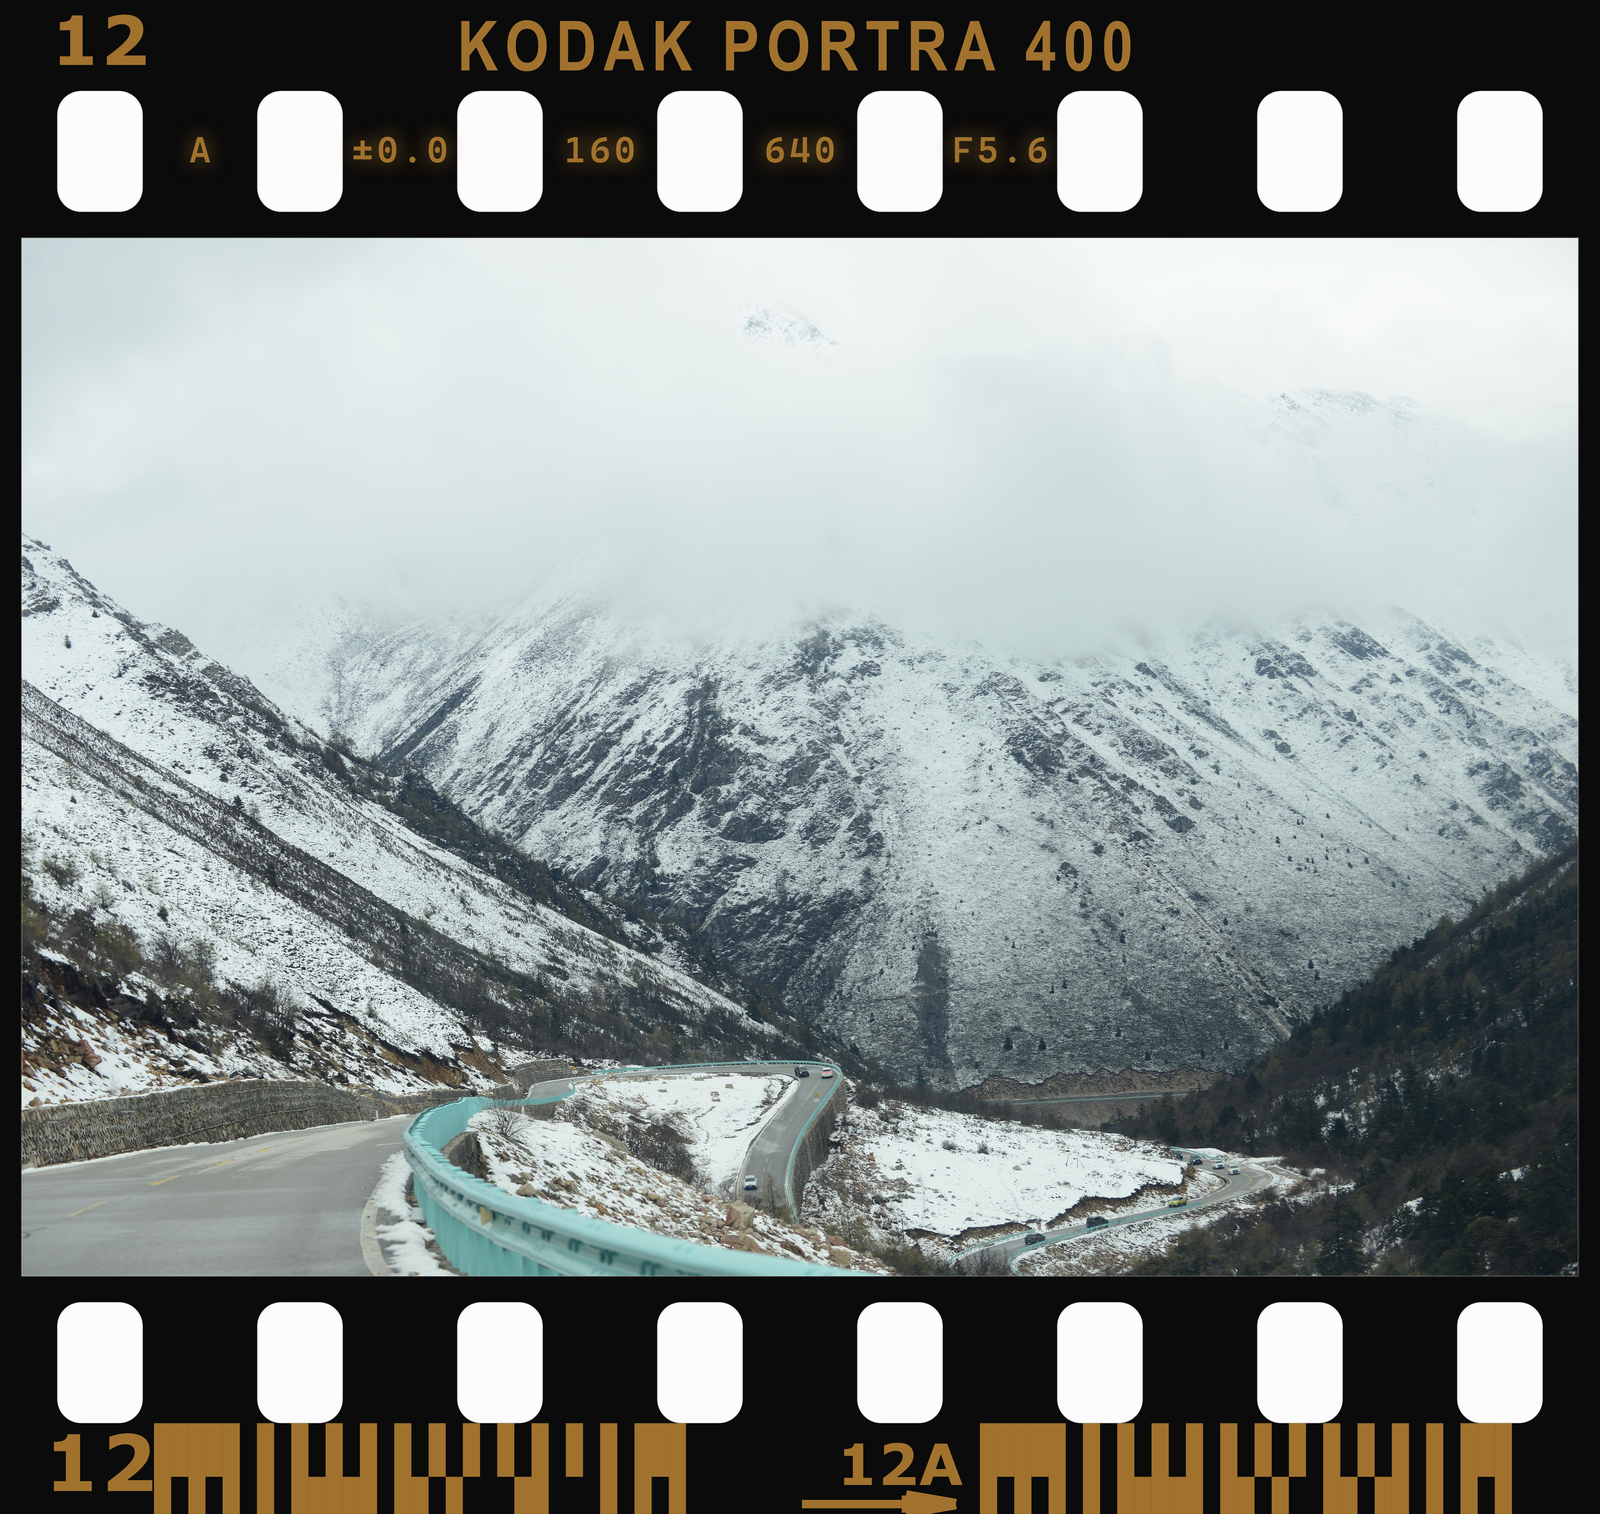
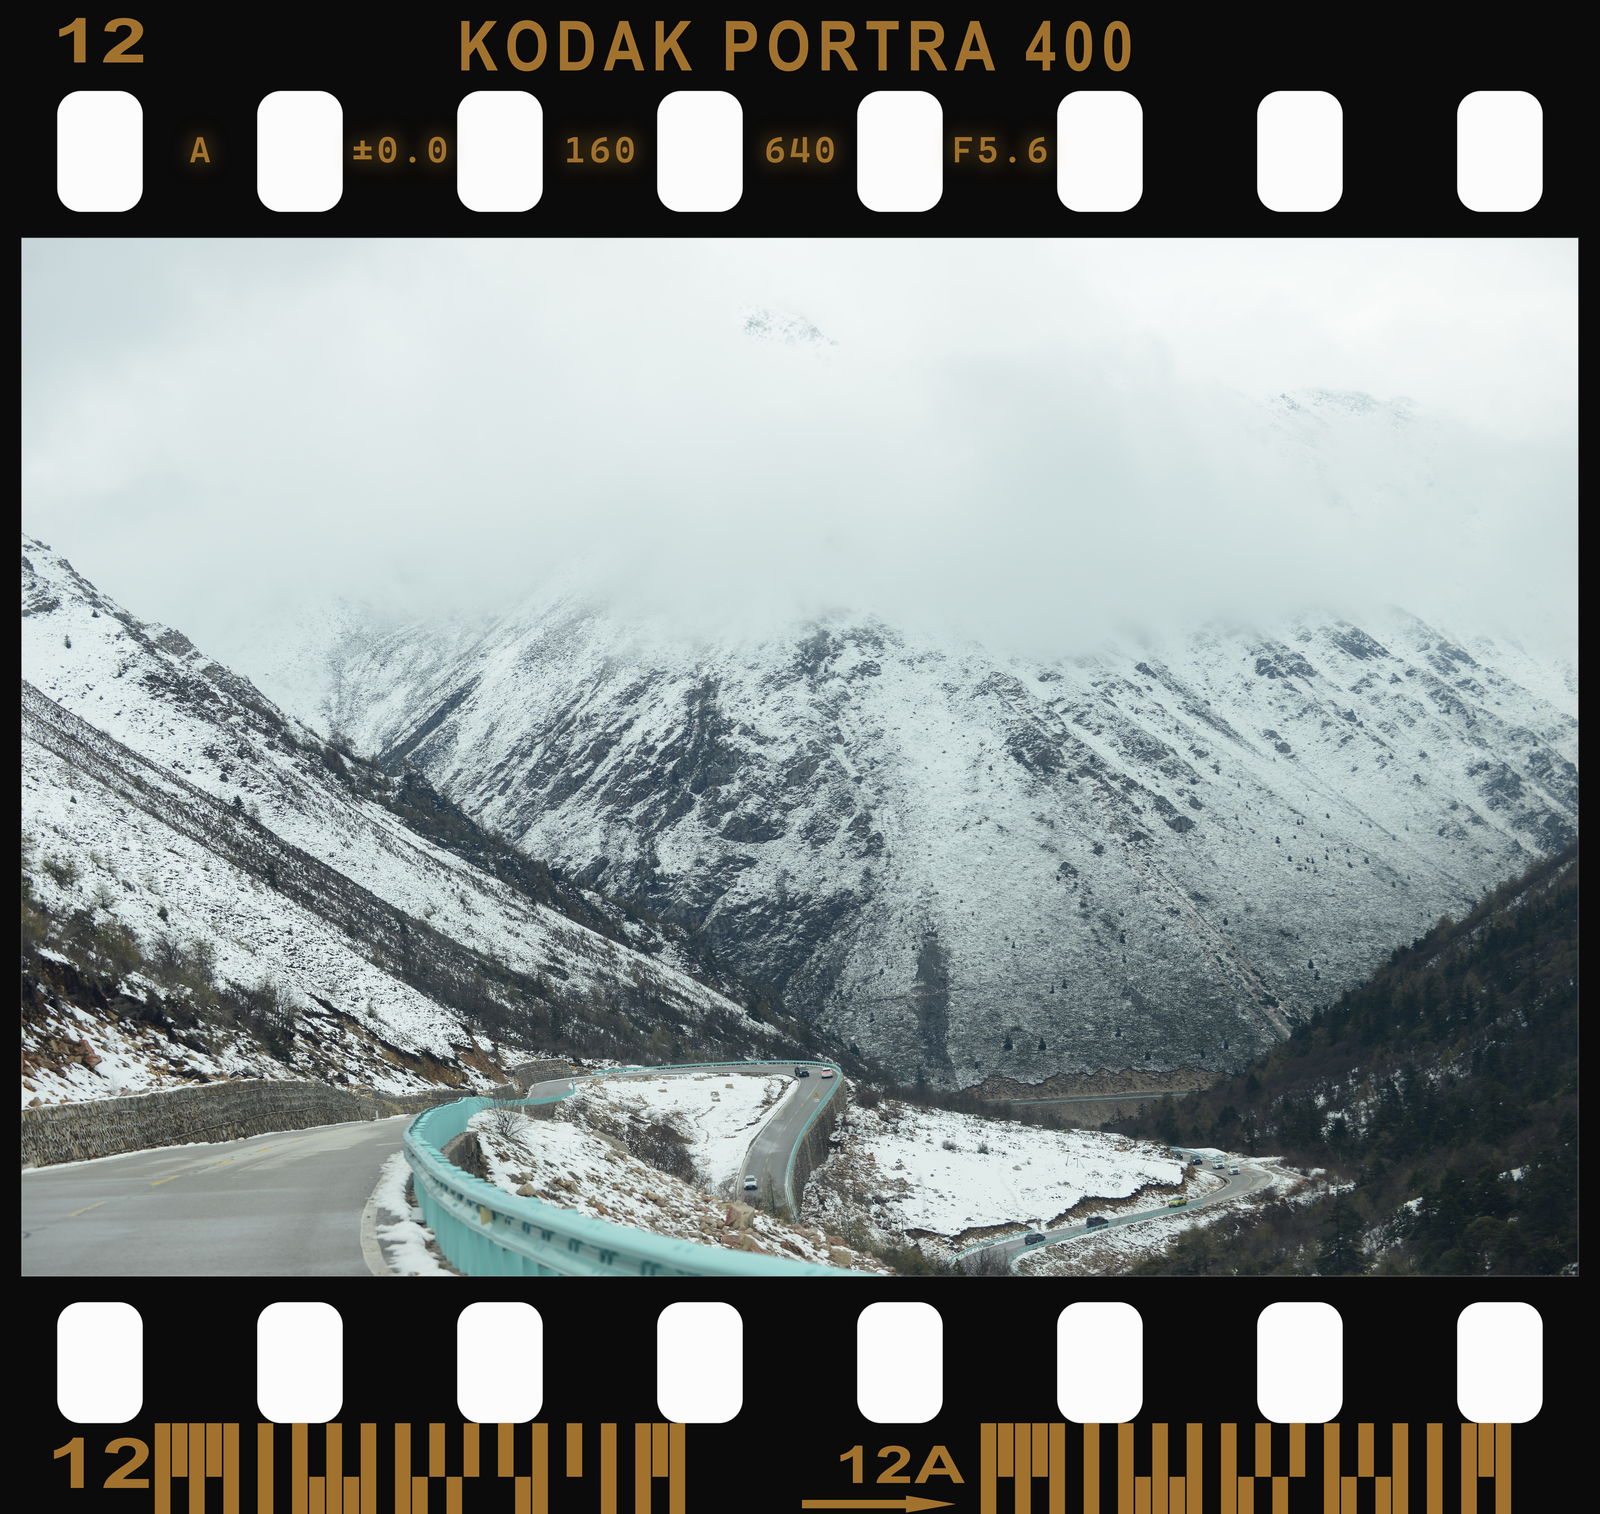
胶片边字：允许裁切、数字更扁、条码微缝、尖头箭头
- KODAK PORTRA 400 不再压缩进画布，竖图/短片按片边自然裁切
- 条码列间加入约 0.008P 的轻微缝隙
- 片号改 Arial Bold + 1.35 横向拉伸，字号减小（更扁、1 无底横）
- 箭头改为填充多边形，尖头
- render 支持文字 scaleX 与 path fill
- 新增竖图裁切示例截图，README/测试同步

diff --git a/js/layout.js b/js/layout.js
@@ -42,7 +42,7 @@
 
   // 胶片边字字体：真实 Portra 的 0 是干净椭圆，不带点也不带斜杠。
   var EDGE_FONT = 'Arial, "Helvetica Neue", Helvetica, sans-serif';
-  var EDGE_NUM_FONT = 'Verdana, "DejaVu Sans", Arial, sans-serif';
+  var EDGE_NUM_FONT = 'Arial, "Helvetica Neue", Helvetica, sans-serif';
   var EDGE_STOCK_FONT = '"Arial Narrow", "Helvetica Neue", Arial, sans-serif';
 
   // 按胶卷型号定义边字样式；不同胶卷（即使同为彩负）互不套用。
@@ -1296,7 +1296,7 @@
       }));
     }
 
-    function edgeTextAt(text, x, y, size, maxW, align, family, weight, tracking) {
+    function edgeTextAt(text, x, y, size, maxW, align, family, weight, tracking, scaleX) {
       var font = family || EDGE_FONT;
       var w = weight || 700;
       var trk = tracking == null ? style.tracking : tracking;
@@ -1310,7 +1310,8 @@
         shadow: false,
         shadowBlur: 0,
         tracking: line.size * trk,
-        rotation: 0
+        rotation: 0,
+        scaleX: scaleX || 1
       }));
     }
 
@@ -1319,6 +1320,7 @@
     function edgeBarcode(pattern, startX, top) {
       if (!pattern) return;
       var unit = (step * 2.66) / pattern.length;
+      var gap = Math.max(0.5, step * 0.008);
       var bandTop = top ? 0 : F - outerBand;
       var bandH = outerBand;
       for (var idx = 0; idx < pattern.length; idx++) {
@@ -1327,24 +1329,36 @@
         var h = code === '3' ? bandH : code === '2' ? bandH * 0.59 : bandH * 0.41;
         var y = code === '1' ? bandTop + bandH - h : bandTop;
         ops.push({
-          kind: 'rect', x: startX + idx * unit, y: y, w: unit, h: h,
+          kind: 'rect', x: startX + idx * unit + gap / 2, y: y, w: Math.max(0.5, unit - gap), h: h,
           radius: 0, fill: edgeColor, stroke: null, shadow: false
         });
       }
     }
 
     function edgeArrow(rightX, y) {
-      // 真实：总长 ≈0.77P，杆厚 ≈0.045P，头长 ≈0.26P，头高 ≈0.090P，贴片边。
+      // 真实：总长 ≈0.77P，杆厚 ≈0.042P，头长 ≈0.25P，头高 ≈0.086P，尖头填充。
       var total = step * 0.77;
       var lw = Math.max(1, step * 0.042);
       var head = step * 0.25;
       var half = step * 0.043;
       var left = rightX - total;
       var mid = y;
-      ops.push({ kind: 'line', x1: left, y1: mid, x2: rightX - head * 0.4, y2: mid, color: edgeColor, width: lw });
-      ops.push({ kind: 'line', x1: rightX - head, y1: mid - half, x2: rightX, y2: mid, color: edgeColor, width: lw * 1.25 });
-      ops.push({ kind: 'line', x1: rightX - head, y1: mid + half, x2: rightX, y2: mid, color: edgeColor, width: lw * 1.25 });
-      ops.push({ kind: 'line', x1: rightX - head, y1: mid - half, x2: rightX - head, y2: mid + half, color: edgeColor, width: lw });
+      ops.push({
+        kind: 'path',
+        points: [
+          [left, mid - lw / 2],
+          [rightX - head, mid - lw / 2],
+          [rightX - head, mid - half],
+          [rightX, mid],
+          [rightX - head, mid + half],
+          [rightX - head, mid + lw / 2],
+          [left, mid + lw / 2]
+        ],
+        fill: edgeColor,
+        color: null,
+        width: 0,
+        shadow: false
+      });
     }
 
     function frameStartInfo(raw) {
@@ -1376,13 +1390,12 @@
     for (var k = firstCycle; k < cycles; k++) {
       var base = k * cycleLen;
       var num = ((info.start - 1 + k) % 36 + 36) % 36 + 1;
-      edgeTextAt(String(num), base + holeCenter(0), bandY(true), step * 0.34, step * 0.95,
-        'center', EDGE_NUM_FONT, 700, 0.02);
-      var stockStartHole = Math.min(style.stockHoles[0], lastHole);
-      var stockEndHole = Math.min(style.stockHoles[1], lastHole);
+      edgeTextAt(String(num), base + holeCenter(0), bandY(true), step * 0.31, step * 0.95,
+        'center', EDGE_NUM_FONT, 700, 0.02, 1.35);
+      var stockStartHole = style.stockHoles[0];
+      var stockEndHole = style.stockHoles[1];
       var stockStart = base + holeCenter(stockStartHole) - holeAlong / 2;
       var stockEnd = base + holeCenter(stockEndHole) + holeAlong / 2;
-      if (stockEndHole >= lastHole) stockEnd = Math.min(stockEnd, alongTotal - holeAlong * 0.2);
       if (stockEnd > stockStart) {
         var stockSpan = stockEnd - stockStart;
         var stockTarget = edgeSize * style.stockScale;
@@ -1395,14 +1408,14 @@
       }
 
       var bottomY = bandY(false);
-      edgeTextAt(String(num), base + holeCenter(0), bottomY, step * 0.39, step * 0.95,
-        'center', EDGE_NUM_FONT, 700, 0.02);
+      edgeTextAt(String(num), base + holeCenter(0), bottomY, step * 0.35, step * 0.95,
+        'center', EDGE_NUM_FONT, 700, 0.02, 1.35);
       if (style.barcode1) {
         edgeBarcode(style.barcode1, base + holeCenter(0) + step * 0.27, false);
       }
-      var aHole = Math.min(style.aHole, lastHole);
+      var aHole = style.aHole;
       edgeTextAt(String(num) + 'A', base + holeCenter(aHole), bottomY,
-        step * 0.285, step * 0.95, 'center', EDGE_NUM_FONT, 700, 0.01);
+        step * 0.26, step * 0.95, 'center', EDGE_NUM_FONT, 700, 0.01, 1.35);
       if (style.barcode2) {
         edgeBarcode(style.barcode2,
           base + holeCenter(style.aHole) + step * 0.40, false);

diff --git a/js/render.js b/js/render.js
@@ -53,7 +53,7 @@
     ctx.font = fontString(spec);
     var width = 0;
     chars.forEach(function (ch) { width += ctx.measureText(ch).width; });
-    return width + (spec.tracking || 0) * Math.max(0, chars.length - 1);
+    return (width + (spec.tracking || 0) * Math.max(0, chars.length - 1)) * (spec.scaleX || 1);
   }
 
   function roundedPath(ctx, x, y, w, h, r) {
@@ -164,7 +164,12 @@
     ctx.beginPath();
     ctx.moveTo(points[0][0], points[0][1]);
     for (var i = 1; i < points.length; i++) ctx.lineTo(points[i][0], points[i][1]);
-    ctx.stroke();
+    ctx.closePath();
+    if (op.fill) {
+      ctx.fillStyle = op.fill;
+      ctx.fill();
+    }
+    if (op.color && (op.width || 0) > 0) ctx.stroke();
     ctx.restore();
   }
 
@@ -208,18 +213,14 @@
     var offset = 0;
     if (op.align === 'center') offset = -total / 2;
     else if (op.align === 'right') offset = -total;
-    var x = op.x || 0;
-    var y = op.y || 0;
-    if (op.rotation) {
-      ctx.translate(x, y);
-      ctx.rotate(op.rotation);
-      x = 0;
-      y = 0;
-    }
-    x += offset;
+    var scaleX = op.scaleX || 1;
+    ctx.translate(op.x || 0, op.y || 0);
+    if (op.rotation) ctx.rotate(op.rotation);
+    if (scaleX !== 1) ctx.scale(scaleX, 1);
+    var cursor = offset;
     chars.forEach(function (ch) {
-      ctx.fillText(ch, x, y);
-      x += ctx.measureText(ch).width + tracking;
+      ctx.fillText(ch, cursor, 0);
+      cursor += ctx.measureText(ch).width + tracking;
     });
     ctx.restore();
   }
@@ -236,7 +237,7 @@
     var tracking = op.tracking || 0;
     var w = measureText(text, {
       size: size, weight: op.weight, family: op.family, italic: op.italic, tracking: tracking
-    });
+    }) * (op.scaleX || 1);
     var h = size;
     var offset = 0;
     if (op.align === 'center') offset = -w / 2;

diff --git a/README.md b/README.md
@@ -128,11 +128,11 @@ node server.mjs
   - **Portra 400** 严格按真实 135 的孔位（第 1 孔出片号，第 9 孔出下一片号，即每 8 孔一循环）：
       - 上侧：片号（如 `9`）在**第 1 个上孔正上方**；`KODAK PORTRA 400` 从**第 3 孔左上**到**第 6 孔右上**；第 9 孔开始下一个片号（`10`）。
       - 下侧：片号（如 `9`）在**第 1 个下孔正下方**；第一段条码从**第 1 孔右下**到**第 4 孔下方**；**第 5 孔正下方是 A 片号**（如 `9A`，比普通片号小一点），A 片号下面有**右向箭头**；第二段条码从**第 5 孔右下**到**第 8/9 孔之间**；第 9 孔开始下一个循环。
-    - 两段条码内容固定为 `3232303031313031212021302030323` 与 `3232303031313031212031213030323`（各 31 列），逐列渲染：`3` 满高、`2` 上半高、`1` 下半高、`0` 空；每列宽 = 2.66P / 31，列与列紧贴、**没有额外缝隙**，所以 `0` 与 `1/2/3` 同宽，相邻的非 0 列会合并成实心块。
+    - 两段条码内容固定为 `3232303031313031212021302030323` 与 `3232303031313031212031213030323`（各 31 列），逐列渲染：`3` 满高、`2` 上半高、`1` 下半高、`0` 空；每列宽 = 2.66P / 31，列间只有约 0.008P 的轻微缝隙；`0` 与 `1/2/3` 基本同宽，相邻的非 0 列会自然合并成实心块。
     - 条码带从**孔下缘**一直贴到**片边**：满高 ≈0.449P、上半 ≈0.265P、下半 ≈0.184P。
-    - 片号使用 **Verdana Bold**（宽、矮胖，`0` 是干净椭圆，无点无斜杠）；胶卷名使用 **Arial Narrow Bold**。片号、A 片号、胶卷名、条码、箭头全部为暗金 `#A0722D`（接近真实 Portra 边字的 (150,112,44)）。
-    - 片号 cap 高度：上侧 0.243P、下侧 0.28P、A 号 0.20P；箭头总长 0.77P、杆厚 0.042P、头长 0.25P，贴片边且右端与 A 号右缘对齐。
-    - 长图上片号每 8 孔递增，胶卷名与两段条码不断重复；首尾不内缩，贴边内容允许被裁切。
+    - 片号使用 **Arial Bold + 1.35 倍横向拉伸**（更扁更宽，`0` 是干净椭圆，`1` 没有底横）；胶卷名使用 **Arial Narrow Bold**。片号、A 片号、胶卷名、条码、箭头全部为暗金 `#A0722D`（接近真实 Portra 边字的 (150,112,44)）。
+    - 片号 cap 高度：上侧 0.243P、下侧 0.28P、A 号 0.20P；箭头是**填充多边形**（尖头，不是粗线段），总长 0.77P、杆厚 0.042P、头长 0.25P，贴片边且右端与 A 号右缘对齐。
+    - 长图上片号每 8 孔递增，胶卷名与两段条码不断重复；**首尾不内缩、也不把文字压缩进画布**，贴边内容直接允许被片边裁切（竖图/短片上 `KODAK PORTRA 400` 被切断是正常的）。
   - **HP5** 使用自己的白字边字样式（独立的循环、字号与布局，没有 Portra 的橙色条码与箭头），后续可直接按真实 HP5 扫描继续细化。
 - 边字字号只由 35mm 片宽决定、透明度固定为 1；**打印字号 / 打印透明度只作用于 Pentax / Minolta / Canon 打印内容**，不影响原有边字。
 - 支持下拉选择胶卷与自定义片号起点（默认 `12`）。
@@ -235,6 +235,7 @@ node tests/cdp-check.mjs shots    "http://127.0.0.1:5173/?demo=canon-r5.jpg"
 - `features`：新增 **导出设置弹窗**（背景 `blur`、控件在弹窗内、关闭后回到 host）、**预设条**（两个按钮、浮层最后一项为「导入预设」）、**左侧常用/全部两种模式**（常用 = 4 张卡 17 行且全部可编辑；全部 = 12 组 130 行且 0 个可编辑）、**滚轮缩放与双击复位**（滚轮变小、双击回自适应、最大不超过自适应）、**所有分区默认展开**（6 套模板逐一检查，胶片恰为「水印模板 / 胶片样式 / 打印内容」3 张）、**显示内容条件**（关掉地点不出现地点来源、勾自定义才出现自定义文字）、**DV 全扁平**（0 个带阴影图元）、**底栏无添加瓦片且图片不可拖**（清空后为可点击虚线框）、**底栏滚轮横滑**（17 张图时 `scrollLeft` 由 0 增至 240）、**下拉皮肤**等检查；并验证日期/时间独立与格式、品牌 logo 去重、拍立得字重隔离、底部白边 logo 位置与短竖线、胶片白色/黑色齿孔（分段按钮）、胶卷下拉切换（Portra/HP5）、Portra 边字按 8 孔循环/片号与条码位置、胶卷名与条码重复、片号 12/12A 递增、Pentax 五段孔间参数、Minolta 贴右居中且竖向不压孔、Canon 右下日期、无打印、DV 取景框/分辨率/曝光/中心对焦、下拉大箭头。
 - `theme`：验证顶部栏右侧黑暗/开灯/跟随系统开关、照片低饱和主题色、模糊照片背景、系统深浅色跟随、localStorage 持久化，并断言**右侧分区与左侧分组圆角/描边/底色完全一致**（同款大卡片）、左侧常用栏 4 组 17 行全可编辑，并生成浅色/深色截图。
 - `files`：验证拖入第二张图自动切换、底部图片瓦片（只含图片，文件名在 `title`/`dataset`）、EXIF 始终可见与底部导出按钮。
+- 竖图裁切示例：`shots/film-vertical.png`。
 - 空状态截图：`shots/empty-state.png`（3:2 空白参考照片 + 默认模板水印，可直接点击选图）、`shots/mock-preview.png`（浅色 + 胶片：3:2 照片被齿孔外框包住）、`shots/mock-dark.png`（深色 + 胶片，照片区保持深色）。
 - `left`：验证底部图片卡片切换、EXIF 双击修改 Make / Model / FNumber、水印像素变化、复位与移除当前照片。
 - `resize`：验证网页字号 1.25 倍、左右侧栏真实鼠标拖动、键盘微调、双击复位、宽度持久化与移动端单列；同时断言**左右侧栏各自通高到底、底部图片列表卡与中间列同宽同缘、标题与右上三个导出按钮正确**、**预览区没有工具栏/页脚且面板背景透明无阴影**、**卡片柔光多段阴影生效**、**底栏所有缩略图等大且底边对齐（无缩放）**，以及预设条贴在右栏底部。
